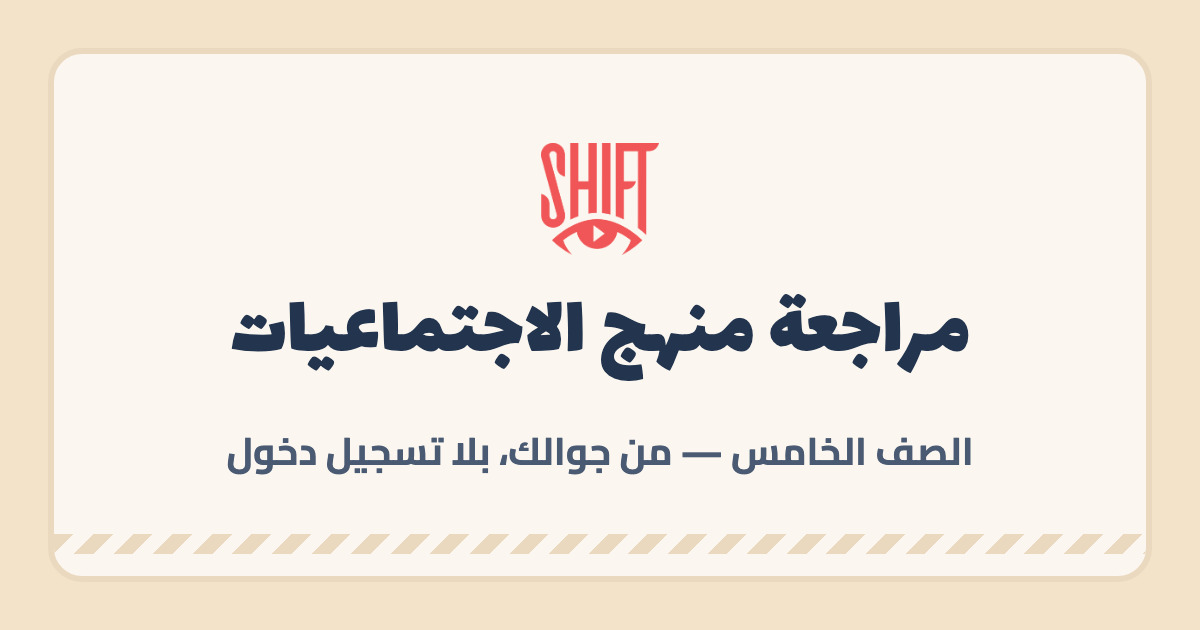
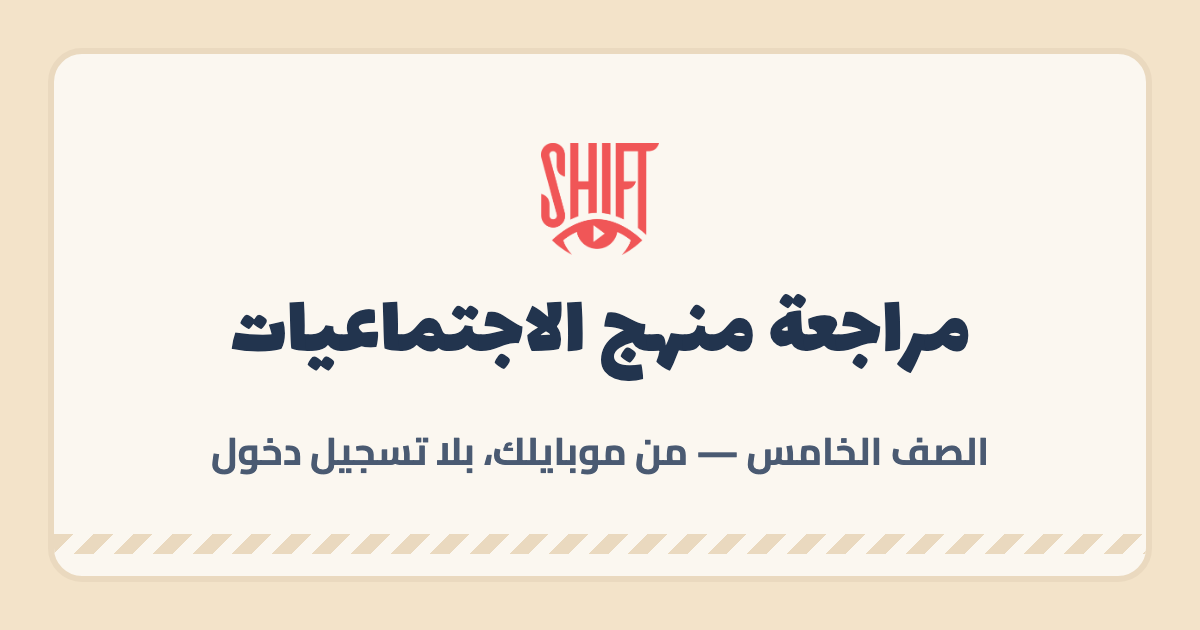
«موبايل» لا «جوال» في نصّ المستخدم، وصور المعاينة محدَّثة

Changed region(s): [[0.1542, 0.6937, 0.8325, 0.754]]

diff --git a/teacher-needs/index.html b/teacher-needs/index.html
@@ -13,7 +13,7 @@
 <meta property="og:locale" content="ar_KW">
 <meta property="og:site_name" content="SHIFT">
 <meta property="og:title" content="حصة المعلم — استبيان SHIFT">
-<meta property="og:description" content="أسئلة عن حصّتك الأخيرة كما حدثت — أقل من عشر دقائق، من جوالك وبلا تسجيل دخول.">
+<meta property="og:description" content="أسئلة عن حصّتك الأخيرة كما حدثت — أقل من عشر دقائق، من موبايلك وبلا تسجيل دخول.">
 <meta property="og:url" content="https://akalkhamis10.github.io/shift-review/teacher-needs/">
 <meta property="og:image" content="https://akalkhamis10.github.io/shift-review/og/teacher-needs.png">
 <meta property="og:image:secure_url" content="https://akalkhamis10.github.io/shift-review/og/teacher-needs.png">
@@ -23,7 +23,7 @@
 <meta property="og:image:alt" content="حصة المعلم — استبيان SHIFT">
 <meta name="twitter:card" content="summary_large_image">
 <meta name="twitter:title" content="حصة المعلم — استبيان SHIFT">
-<meta name="twitter:description" content="أسئلة عن حصّتك الأخيرة كما حدثت — أقل من عشر دقائق، من جوالك وبلا تسجيل دخول.">
+<meta name="twitter:description" content="أسئلة عن حصّتك الأخيرة كما حدثت — أقل من عشر دقائق، من موبايلك وبلا تسجيل دخول.">
 <meta name="twitter:image" content="https://akalkhamis10.github.io/shift-review/og/teacher-needs.png">
 <!-- قالب استبيان «حصة المعلم». الناتج survey.html يُولَّد بـbuild_survey.py — لا يُحرَّر الناتج.
      **المحرك مأخوذ من صفحة مراجعة المنهج** (review-app.src.html): التخزين المحلي، وطابور ما لم يصل،

diff --git a/index.html b/index.html
@@ -13,7 +13,7 @@
 <meta property="og:locale" content="ar_KW">
 <meta property="og:site_name" content="SHIFT">
 <meta property="og:title" content="مراجعة منهج الاجتماعيات — الصف الخامس">
-<meta property="og:description" content="راجع أهداف كل درس وحقائقه من جوالك، بلا تسجيل دخول — من SHIFT.">
+<meta property="og:description" content="راجع أهداف كل درس وحقائقه من موبايلك، بلا تسجيل دخول — من SHIFT.">
 <meta property="og:url" content="https://akalkhamis10.github.io/shift-review/">
 <meta property="og:image" content="https://akalkhamis10.github.io/shift-review/og/review-g5.png">
 <meta property="og:image:secure_url" content="https://akalkhamis10.github.io/shift-review/og/review-g5.png">
@@ -23,7 +23,7 @@
 <meta property="og:image:alt" content="مراجعة منهج الاجتماعيات — الصف الخامس">
 <meta name="twitter:card" content="summary_large_image">
 <meta name="twitter:title" content="مراجعة منهج الاجتماعيات — الصف الخامس">
-<meta name="twitter:description" content="راجع أهداف كل درس وحقائقه من جوالك، بلا تسجيل دخول — من SHIFT.">
+<meta name="twitter:description" content="راجع أهداف كل درس وحقائقه من موبايلك، بلا تسجيل دخول — من SHIFT.">
 <meta name="twitter:image" content="https://akalkhamis10.github.io/shift-review/og/review-g5.png">
 <!-- قالب الصفحة. الناتج المنشور review-app.html يُولَّد بـ build_g5.py (يحقن البيانات والخطوط) — لا يُحرَّر الناتج.
      نيّة البناء (قرار المؤسّس 13 سبتمبر): هذه نواة «بوابة مراجع المناهج» في المنتج، لا أداة مؤقتة —
